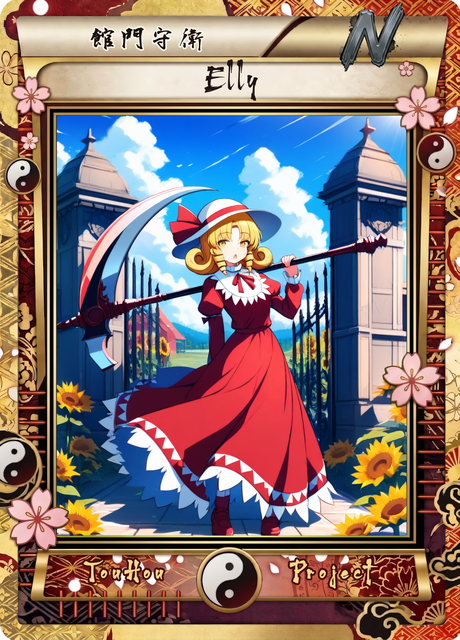
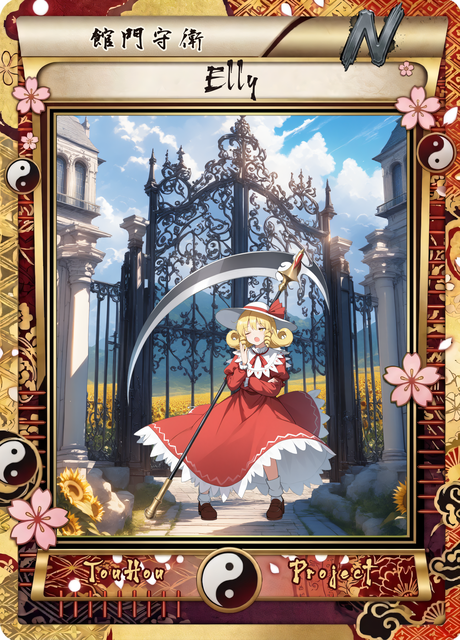
feat: 0.34.001 艾莉 N / R / SR 卡面，紅霧異變祈願任務改算紅魔鄉卡池

diff --git a/tools/card_art/layered/hd_card.py b/tools/card_art/layered/hd_card.py
@@ -1033,6 +1033,49 @@ LAYERS = {
         "char_negative": "wings, weapon, suitcase",
         "char_scale": 0.85,
     },
+    # 艾莉 N / R / SR (TH04 舊卡重生)：外觀沿用 make_workflow.BASE["elly"] (金色雙鑽頭捲髮、黃瞳、白色寬簷帽纏紅緞帶、深紅長裙白圍領、紅柄大鐮刀)；
+    # 夢幻館 (幽香的住所) 的門番；鐮刀一定要留在人物層 (拿在手上，去背才不會被切掉)；EXTRA_NEGATIVE["elly"] 已擋死神斗篷 / 小町
+    # N～SR 沒有彈幕：舊 SCENES 的地磚彈幕、迴旋光環拿掉，飛起的地磚 / 花瓣放背景
+    ("elly", "N"): {
+        # N「館門守衛」：悠閒 (浪費光陰) 的門番，白天在夢幻館的鐵門前靠著鐮刀打呵欠
+        # 背景 = 洋館大門 (鐵柵門、石柱、門後的洋館)、門前的向日葵花田、藍天白雲；平視、日常柔光
+        "bg": ("no humans, scenery, eye level, ornate western mansion gate, wrought iron gate, stone gate pillars, stone path, "
+               "western mansion in the distance behind the gate, sunflower field, sunflowers, blue sky, white clouds, "
+               "daylight, soft lighting, peaceful, highly detailed"),
+        "bg_negative": "1girl, person, human, character, face, scythe, weapon, text, watermark, lowres, worst quality, low quality, blurry, frame, border, night, dark",
+        "char": ("standing, leaning on scythe, both hands resting on scythe handle, yawning, open mouth, one eye closed, sleepy, bored, relaxed, "
+                 "looking away, from side, three-quarter view, full body"),
+        "char_negative": "cleavage, revealing clothes, short dress, skirt lift, sunflowers, flowers, gate, sitting, multiple scythes",
+        "char_scale": 0.65,   # 日常卡人物小一點融入背景；鐮刀很長，要整支放得下
+        "offset": (0.0, 0.14),   # 使用者 (2026-11-14)：往下一點，腳要踩到地板 (石板路)
+    },
+    ("elly", "R"): {
+        # R「大鐮的守衛」：闖入者來了 ➔ 在館前石板廣場擺出迎擊架式，鐮刀橫在身前擋住去路、表情認真
+        # 背景 = 夢幻館正面 (階梯、大門)、石板廣場、被掀起飛在空中的碎地磚 (原作把地磚當彈幕，這裡只當背景的碎石)、風吹向日葵花瓣
+        "bg": ("no humans, scenery, eye level, front of a grand western mansion, stone stairs, large mansion doors, stone tiled plaza, "
+               "cracked floor tiles, broken stone tiles floating in the air, debris, sunflower petals flying in the wind, "
+               "sunflowers on both sides, blue sky, wind, dramatic, highly detailed"),
+        "bg_negative": "1girl, person, human, character, face, scythe, weapon, text, watermark, lowres, worst quality, low quality, blurry, frame, border, night, dark",
+        "char": ("battle stance, holding scythe with both hands, scythe held horizontally in front of her, blocking the way, legs apart, "
+                 "determined expression, serious, looking at viewer, hat ribbon fluttering, hair and dress fluttering in the wind, "
+                 "dynamic pose, full body"),
+        "char_negative": ("cleavage, revealing clothes, short dress, skirt lift, floor tiles, debris, rocks, slash effect, motion lines, "
+                          "danmaku, magic circle, multiple scythes"),
+        "char_scale": 0.75,
+    },
+    ("elly", "SR"): {
+        # SR「夢幻館的最後防線」：死鐮「迴旋斬擊」的起手 ── 鐮刀高舉過頭準備甩出去，自信的壞笑、眼睛發亮；微仰視更有氣勢
+        # 背景 = 夕陽下的夢幻館 (高聳的洋館剪影、大門敞開)、滿天捲起的向日葵花瓣、光線；SR 沒有彈幕，鐮刀不畫旋轉光環 (去背會切掉)
+        "bg": ("no humans, scenery, eye level, slightly from below, towering grand western mansion, open mansion gate, stone courtyard, "
+               "sunset, orange and crimson sky, dramatic clouds, sunflower petals swirling in the wind, sunflower field, "
+               "light rays, bloom, epic, majestic, highly detailed, intricate details"),
+        "bg_negative": "1girl, person, human, character, face, scythe, weapon, text, watermark, lowres, worst quality, low quality, blurry, frame, border, magic circle",
+        "char": ("from below, raising scythe overhead with both hands, about to throw the scythe, fierce grin, confident, glowing eyes, "
+                 "looking at viewer, hat ribbon flowing, hair flowing, dress fluttering in the wind, dynamic angle, full body"),
+        "char_negative": ("cleavage, revealing clothes, short dress, skirt lift, upskirt, panties, spinning effect, energy rings, slash effect, "
+                          "motion lines, petals, danmaku, magic circle, multiple scythes"),
+        "char_scale": 0.8,
+    },
 }
 
 

diff --git a/tests/test_event_quests.py b/tests/test_event_quests.py
@@ -118,7 +118,7 @@ async def main():
     expect = [("初探紅魔館廚房", "explore_location", 10, 50000, 300), ("女僕長的食譜", "cook_each", 3, 50000, 300),
               ("款待妖精女僕", "serve_guest", 5, 50000, 300), ("使魔的晚餐", "serve_guest", 5, 50000, 300),
               ("紅色的午茶時間", "serve_event_dish", 30, 100000, 500), ("完美的款待", "serve_favorite", 10, 50000, 300),
-              ("紅霧中的祈願", "gacha_event_pool", 50, 100000, 500), ("異變調查", "daily", 7, 100000, 500)]
+              ("紅霧中的祈願", "gacha_pool", 50, 100000, 500), ("異變調查", "daily", 7, 100000, 500)]
     check("quest table", [(q["name"], q["type"], events.quest_need(q), q["reward"]["money"], q["reward"]["exp"])
                           for q in ev["quests"]] == expect)
     check("targets", ev["quests"][0]["target"] == "scarlet_kitchen" and ev["quests"][2]["target"] == "fairy_maid"
@@ -134,7 +134,8 @@ async def main():
     check(f"goal text {goal}", goal == "在「🏰紅魔館廚房」採集 {p} 次")
     check("goal guest", "妖精女僕" in events.quest_goal(ev["quests"][2], ev, items))
     check("goal cook", "草莓鮮奶油蛋糕" in events.quest_goal(ev["quests"][1], ev, items))
-    check("goal gacha warns no pool", "還沒有活動限定卡池" in events.quest_goal(ev["quests"][6], ev, items))
+    check("goal gacha pool", events.quest_goal(ev["quests"][6], ev, items) == "在「🔴 紅魔鄉卡池」祈願 {p} 抽")
+    check("goal event pool warns", "還沒有活動限定卡池" in events.quest_goal({"type": "gacha_event_pool", "count": 5}, ev, items))
 
     # 稱號資料
     check("event titles in TITLES", td.TITLES[VISITOR]["name"] == "紅霧中的參拜者" and td.TITLES[RESOLVER]["rarity"] == "SSR")
@@ -170,11 +171,13 @@ async def main():
     check(f"serve counted {st}", st.get("serve_guest:fairy_maid") == 1 and st.get("serve_guest:familiar_bat") == 1
           and st.get("serve_event_dish") == 2 and st.get("serve_favorite") == 1)
     await udm.draw_gacha(A, f"event_{EV}", 10, 0, roll_none, now=NOW)
-    await udm.draw_gacha(A, "th06", 10, 0, roll_none, now=NOW)   # 一般卡池不算
+    await udm.draw_gacha(A, "th06", 10, 0, roll_none, now=NOW)   # 一般卡池記 gacha_pool:th06 (紅霧異變算紅魔鄉卡池)
+    await udm.draw_gacha(A, "classic", 1, 0, roll_none, now=NOW)
     check("claim daily", await udm.claim_daily(A, "2026-11-14", 3, now=NOW))
     check("daily twice no", not await udm.claim_daily(A, "2026-11-14", 3, now=NOW))
     st = stats(A, AUTO)
-    check(f"gacha + daily counted {st}", st.get("gacha_event_pool") == 10 and st.get("daily") == 1)
+    check(f"gacha + daily counted {st}", st.get("gacha_event_pool") == 10 and st.get("gacha_pool:th06") == 10
+          and st.get("gacha_pool:classic") == 1 and st.get("daily") == 1)
 
     board = await qdm.get_quest_board(A, now=NOW)
     check("board one event", len(board) == 1 and board[0]["run"] == AUTO and board[0]["total"] == 8)
@@ -256,7 +259,7 @@ async def main():
         r = await qdm.claim_quest(A, EV, q, now=T2)
         check(f"run2 claim {q}", r["ok"] and r["new_titles"] == [] and r["claimed_all_runs"] == 4)
     set_stats(A, RUN2, cook__evt_napolitan=1, cook__evt_darjeeling_tea=1, cook__evt_strawberry_cake=1,
-              serve_event_dish=30, serve_favorite=10, gacha_event_pool=50)
+              serve_event_dish=30, serve_favorite=10, gacha_pool__th06=50)
     got = []
     for q in ("maid_recipes", "red_tea_time", "perfect_service", "mist_prayer"):
         got += (await qdm.claim_quest(A, EV, q, now=T2))["new_titles"]

diff --git a/Database/events.py b/Database/events.py
@@ -160,6 +160,7 @@ QUEST_TYPES = {
     "serve_event_dish": None,               # 招待時端出這個活動的活動料理份數
     "serve_favorite": None,                 # 成功招待 (額外端上客人最愛的料理) 的次數
     "gacha_event_pool": None,               # 這個活動的活動限定卡池祈願抽數
+    "gacha_pool": "卡池 id (classic / th06)",  # 活動期間在那個一般卡池祈願的抽數 (2026-11-14：紅霧異變算紅魔鄉卡池)
     "daily": None,                          # 活動期間簽到天數
 }
 TITLE_RARITIES = ("N", "R", "SR", "SSR", "UR", "LR")
@@ -219,6 +220,8 @@ def quest_progress(quest: dict, stats: dict) -> int:
         cur = sum(1 for d in (target or []) if stats.get(f"cook:{d}", 0) >= each)
     elif t == "serve_guest":
         cur = stats.get(f"serve_guest:{target}", 0)
+    elif t == "gacha_pool":
+        cur = stats.get(f"gacha_pool:{target}", 0)
     elif t in ("serve_event_dish", "serve_favorite", "gacha_event_pool", "daily"):
         cur = stats.get(t, 0)
     else:
@@ -258,6 +261,9 @@ def quest_goal(quest: dict, event: dict, items: dict | None = None) -> str:
         if not event.get("gacha", {}).get("pool", {}).get("characters"):
             text += "\n-# ⚠ 這個活動目前還沒有活動限定卡池"
         return text
+    if t == "gacha_pool":
+        from Utils.gacha_pools import GACHA_POOLS
+        return f"在「{GACHA_POOLS.get(target, {}).get('name', target)}」祈願 {{p}} 抽"
     if t == "daily":
         return "活動期間簽到 {p} 天"
     return "{p}"

diff --git a/Database/User_DB_Manager.py b/Database/User_DB_Manager.py
@@ -1121,6 +1121,8 @@ async def draw_gacha(user_id: int, pool: str, draw_count: int, cost: int, roll_c
             )
             if pool.startswith(EVENT_POOL_PREFIX):   # 🎪 活動卡池祈願 ➔ 那個活動的任務計數
                 await add_quest_stats(db, user_id, now, per_event={pool[len(EVENT_POOL_PREFIX):]: {"gacha_event_pool": draw_count}})
+            else:   # 一般卡池 ➔ 進行中的活動都記 gacha_pool:<卡池> (任務 type gacha_pool)
+                await add_quest_stats(db, user_id, now, stats={f"gacha_pool:{pool}": draw_count})
             await db.commit()
         except BaseException:
             await db.rollback()

diff --git a/Utils/version.py b/Utils/version.py
@@ -6,4 +6,4 @@
 
 每次 commit 都要更新這裡和 CHANGELOG.md。
 """
-VERSION = "0.34.000"
+VERSION = "0.34.001"

diff --git a/CHANGELOG.md b/CHANGELOG.md
@@ -13,6 +13,11 @@
 
 ---
 
+## 0.34.001 — 2026-11-14：艾莉 N / R / SR 卡面，紅霧異變祈願任務改算紅魔鄉卡池
+- **艾莉卡面** (高清分層，筆電生成)：N「館門守衛」B1C4 (夢幻館鐵門 + 向日葵，打呵欠；使用者要人物往下踩到地板 ➔ `offset (0, 0.14)`)、R「大鐮的守衛」B1C4 (洋館正面，迎擊架式)、SR「夢幻館的最後防線」B2C4 (夕陽洋館，躍起高舉鋸齒鐮刀)。LAYERS 寫進 `hd_card.py`。
+- 坑：改 `offset` 只跑 `compose` 沒效果 ➔ offset 是在 `char` 那一步 (10_char) 套用的，要先 `hd_card.py char` 再 `compose`。
+- **活動任務新 type `gacha_pool`** (target = 卡池 id)：活動期間在一般卡池祈願的抽數。使用者：「TH06 不就是嗎？」➔ 紅霧異變第 7 項「紅霧中的祈願」改成紅魔鄉卡池祈願 50 抽 (原本要活動限定卡池，但紅霧異變沒有，做不完)。
+
 ## 0.34.000 — 2026-11-14：📜 活動任務 `/event quest` + 永久活動稱號
 - **活動任務** (使用者 2026-11-14 定案)：活動檔新增 `quests` / `quest_titles` (格式寫進 `Events/README.md`)。type：`explore_location`、`cook_each`、`serve_guest`、`serve_event_dish`、`serve_favorite`、`gacha_event_pool`、`daily`。
 - **紅霧異變 8 個任務**：初探紅魔館廚房 (紅魔館廚房採集 10 次)、女僕長的食譜 (三種活動料理各 1 次)、款待妖精女僕 5 位、使魔的晚餐 (蝙蝠使魔 5 位)、紅色的午茶時間 (活動料理 30 份，10 萬 + 500)、完美的款待 (成功招待 10 次)、紅霧中的祈願 (活動卡池 50 抽，10 萬 + 500)、異變調查 (簽到 7 天，10 萬 + 500)；其他 5 萬 + 300 EXP。說明由 Claude 寫。稱號：R「紅霧中的參拜者」4 項、SSR「紅霧異變的解決者」8 項。

diff --git a/Events/README.md b/Events/README.md
@@ -52,6 +52,7 @@
 | `serve_event_dish` | — | 招待時端出**這個活動**的活動料理份數 (點的 + 額外招待都算) |
 | `serve_favorite` | — | 成功招待 (額外端上客人最愛的料理) 的次數 |
 | `gacha_event_pool` | — | 這個活動的活動限定卡池 (`gacha.pool`) 祈願抽數；活動沒有卡池時這個任務做不完 (畫面會提示) |
+| `gacha_pool` | 卡池 id (`classic` / `th06`) | 活動期間在那個一般卡池祈願的抽數 (紅霧異變算紅魔鄉卡池) |
 | `daily` | — | 活動期間簽到天數 |
 
 - `count` = 目標數字 (`cook_each` 除外)；`reward.money` / `reward.exp` = 領取的賽錢與經驗值。

diff --git a/TODO.md b/TODO.md
@@ -29,7 +29,7 @@
 | TH02 | 里香 rika | N / R / SR | ✅ 0.31.009 N / R 重生 (N 使用者 PhotoCraft 手修)；SR 使用者選回舊版 |
 | TH03 | 千百合 chiyuri | N / R / SR | ✅ 0.31.009 |
 | TH03 | 夢美 yumemi | R / SR / SSR | ✅ 0.31.009 (三張都使用者 PhotoCraft 手修) |
-| TH04 | 艾莉 elly | N / R / SR | 全部重生 |
+| TH04 | 艾莉 elly | N / R / SR | ✅ 0.34.001 (N 人物往下移，腳踩到石板路) |
 | TH04 | 幻月 gengetsu | R / SR / SSR | 全部重生 (有翅膀 ➔ 翅膀分層) |
 | TH04 | 夢月 mugetsu | N / R / SR | 全部重生 |
 | TH05 | 愛麗絲 alice | SR / SSR / UR | 全部重生 (舊作外觀) |
